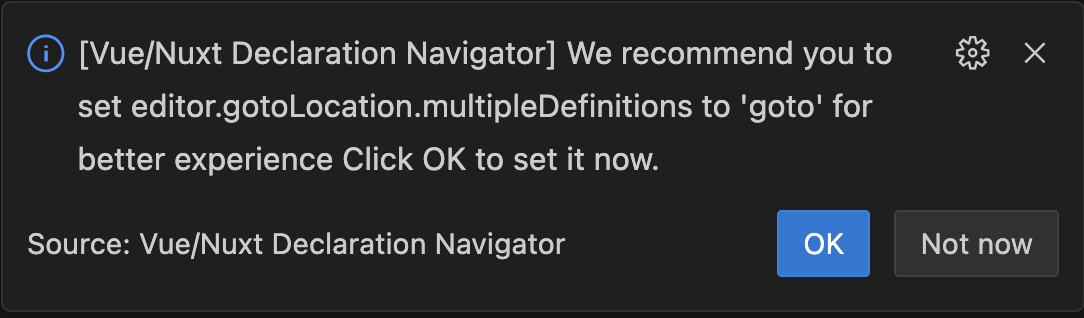
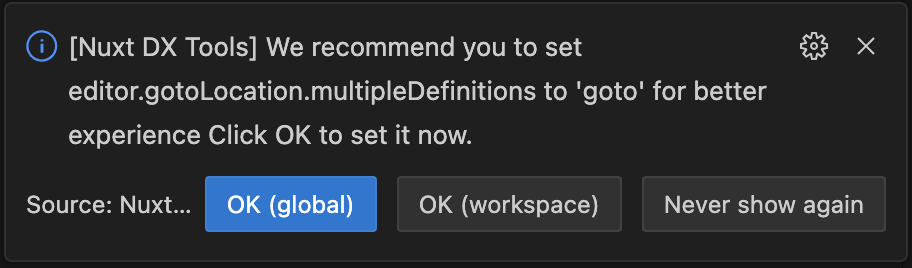
feat: v1.5.0 improve prompt

diff --git a/src/utils/configuration.ts b/src/utils/configuration.ts
@@ -1,4 +1,4 @@
-import { ExtensionContext, window, workspace, WorkspaceConfiguration, Disposable } from 'vscode';
+import { ExtensionContext, window, workspace, WorkspaceConfiguration, Disposable, ConfigurationTarget } from 'vscode';
 import { ConfigurationKey } from '../types/configuration';
 
 const multipleDefinitions = 'editor.gotoLocation.multipleDefinitions';
@@ -9,8 +9,8 @@ export async function prompt(name: string, e: ExtensionContext) {
 
   if (e.globalState.get(confirmSetting))
     {return;}
-
-  if (config.get(multipleDefinitions) === 'goto') {
+  
+  if (config.inspect(multipleDefinitions)?.globalValue === 'goto' || config.get(multipleDefinitions) === 'goto') {
     return;
   }
 
@@ -20,15 +20,23 @@ export async function prompt(name: string, e: ExtensionContext) {
     We recommend you to set ${multipleDefinitions} to 'goto' for better experience
     Click OK to set it now.
     `,
-    'OK',
-    'Not now'
+    'OK (global)',
+    'OK (workspace)',
+    'Never show again'
   );
-
-  if (response === 'OK') {
+  
+  if (response === 'OK (workspace)') {
     await config.update(multipleDefinitions, 'goto');
+  } else if (response === 'OK (global)') {
+    await config.update(multipleDefinitions, 'goto', ConfigurationTarget.Global);
+  } else if (response === 'Never show again') {
+    e.globalState.update(confirmSetting, true);
   }
+}
 
-  e.globalState.update(confirmSetting, true);
+export async function reset() {
+  const config = workspace.getConfiguration();
+  config.update(confirmSetting, false);
 }
 
 const key = 'nuxtDxTools';

diff --git a/src/extension.ts b/src/extension.ts
@@ -1,5 +1,5 @@
 import { State } from './types/state';
-import { ConfigurationService, prompt } from './utils/configuration';
+import { ConfigurationService, prompt, reset } from './utils/configuration';
 import { getNuxtFolder, joinPath } from './utils/file';
 import { MainProvider } from './definition/main';
 import { workspace, ExtensionContext, window, languages, DocumentSelector, Disposable } from 'vscode';
@@ -42,9 +42,6 @@ export function activate(context: ExtensionContext) {
 
 	prompt(extensionName, context);
 
-	const config = workspace.getConfiguration();
-
-	config.update('editor.gotoLocation.multipleDefinitions', 'goto');
 	const workspaceRoot = getWorkspaceRoot();
 
 	if (workspaceRoot) {
@@ -95,5 +92,7 @@ export function activate(context: ExtensionContext) {
 
 // This method is called when your extension is deactivated
 export function deactivate() {
+	reset();
+	console.log('Configuration reseted!');
 	console.log(`Your extension "${extensionId}" is now deactivated!`);
 }

diff --git a/CHANGELOG.md b/CHANGELOG.md
@@ -35,3 +35,7 @@ Check [Keep a Changelog](http://keepachangelog.com/) for recommendations on how 
 ## [1.4.0]
 
 - $fetch.raw support
+
+## [1.5.0]
+
+- Improve prompt for global and workspace logic
